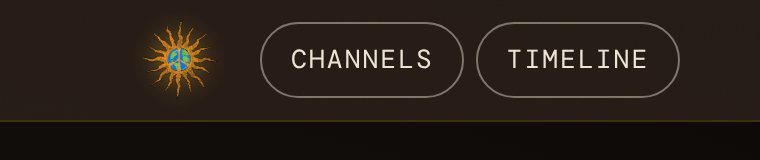
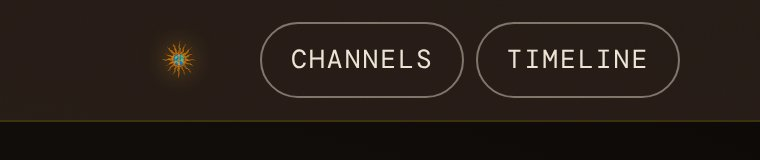
Make the peace sun in the Map nav button 50% smaller
Claude-Session: https://claude.ai/code/session_01ARv692gH35ZwWcuiyRn4Ae

Changed region(s): [[0.1816, 0.1562, 0.2724, 0.5938]]

diff --git a/style.css b/style.css
@@ -118,7 +118,7 @@ body:not(.home) .site-header {
 }
 .site-nav a.nav-map:hover { background: none; border-color: transparent; color: inherit; }
 .nav-map > * { grid-area: 1 / 1; transition: opacity .3s ease, transform .3s ease; }
-.nav-map-icon { height: 2.5rem; width: auto; margin: -.65rem 0; }
+.nav-map-icon { height: 1.25rem; width: auto; }
 .nav-map-label { opacity: 0; transform: scale(.85); }
 .site-nav a.nav-map[aria-current="page"] { border-color: transparent; background: none; }
 .site-nav a.nav-map[aria-current="page"] .nav-map-icon { filter: drop-shadow(0 0 6px rgba(212, 167, 44, .7)); }
